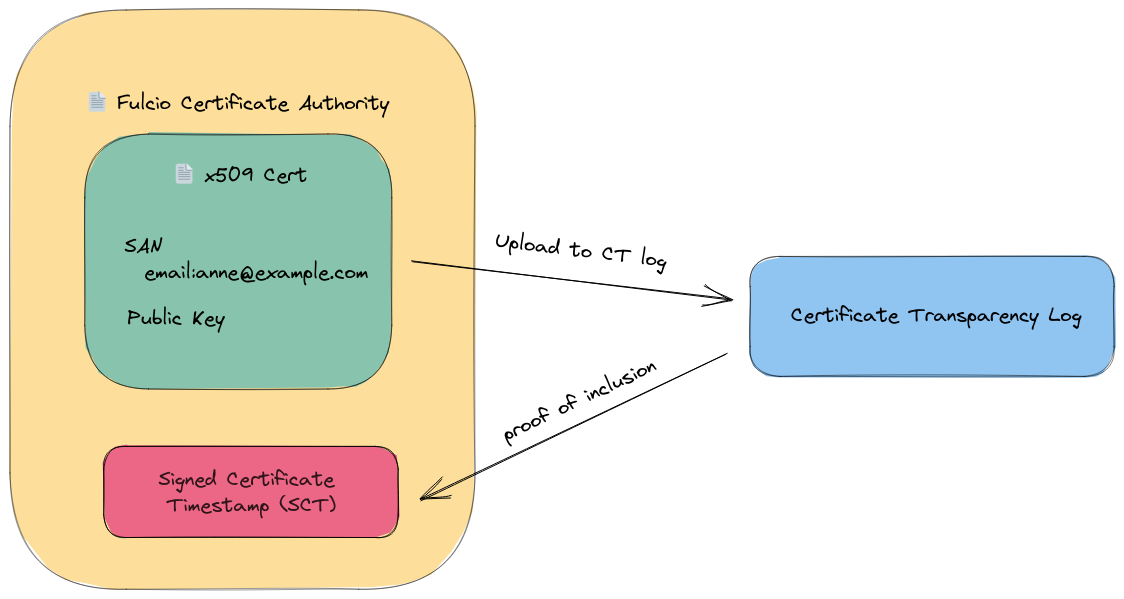
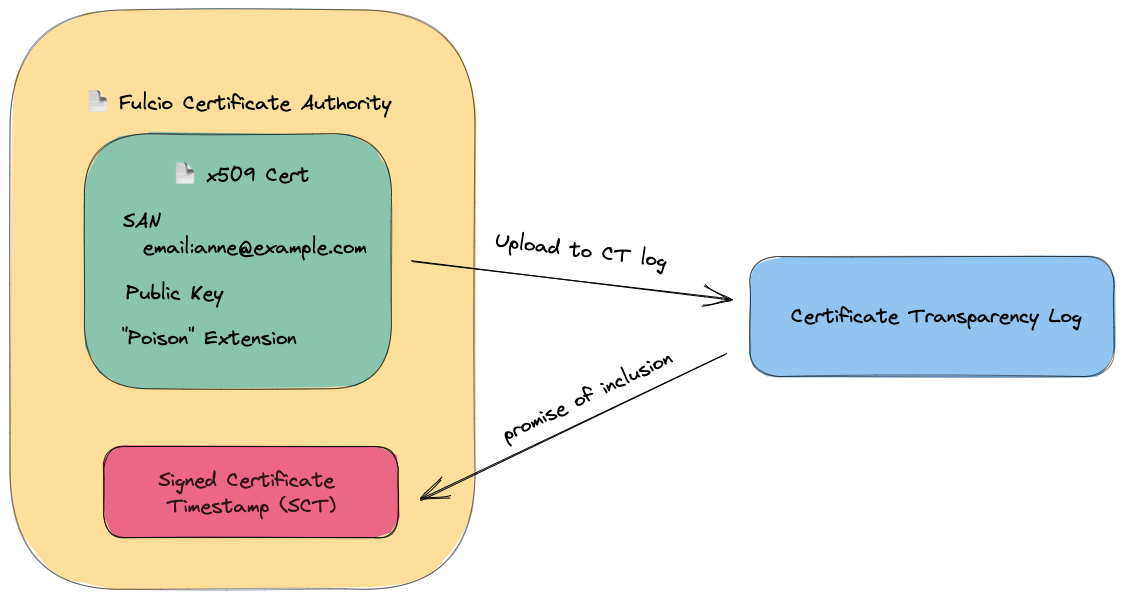
Update certificate issuance documentation
Updated with new backends, CSR, embedded SCT, and cleaned up security
model.

Fixes #699

diff --git a/docs/how-certificate-issuing-works.md b/docs/how-certificate-issuing-works.md
@@ -1,8 +1,7 @@
 # Certificate Issuing Overview
 
-This document walks through the process of issuing a code signing certificate
-from start to finish. This is a great entry point to understanding how Fulcio
-works if you're interested in contributing to the project or just want to
+This document walks through the process of issuing a code signing certificate. This is a great entry point to understanding how Fulcio
+works if you're interested in contributing to the project or want to
 learn more about what's happening under the hood.
 
 ## 1 | Certificate Request Input
@@ -11,17 +10,21 @@ To begin, the client submits a certificate request to Fulcio.
 
 ![Certificate request diagram](img/certificate-request.png)
 
-The certificate request contains three items:
+The certificate request contains the following:
 
-- An OIDC identity token. This is a JWT containing information about the
-  principal (identity of our client), the issuer (who verified this identity?
-Google, Github etc) and some other metadata.
-- The public key. This is the public half of an asymmetric key-pair generated
-  by the client. The public key will be embedded in the final x509 certificate
-if this request is successful
-- A challenge. This challenge proves the client is in possession of the private
-  key that corresponds to the public key provided. The challenge created by
-signing the subject portion of the OIDC ID token
+- An OpenID Connect (OIDC) identity token. This is a signed JWT containing information about the
+  principal (identity of the client), the issuer (who issued the identity token -
+  Google, Microsoft, GitHub, etc.) and additional metadata such as expiration. The princaipl identity
+  can either be a maintainer identity in the form of an email, or a workload identity.
+- The public key. This is the public portion of a cryptographic key pair generated
+  by the client. The public key will be embedded in the issued X.509 certificate.
+- A signed challenge. This challenge proves the client is in possession of the private
+  key that corresponds to the public key provided. The challenge is created by
+  signing the subject (`sub`) of the OIDC identity token.
+- Alternatively, instead of a public key and signed challenge, a client can provide a certificate
+  signing request (CSR), which also provides a proof of possession and the public key.
+
+See the [service definition](https://github.com/sigstore/fulcio/blob/main/fulcio.proto) for more details.
 
 ## 2 | Authentication
 
@@ -30,7 +33,7 @@ OIDC ID token.
 
 ![OIDC Authentication diagram](img/authenticate-token.png)
 
-To authorize the token Fulcio must:
+To authenticate the token Fulcio must:
 
 - Use the issuer claim from the token to find the issuer's OIDC discovery
   endpoint
@@ -41,61 +44,72 @@ To authorize the token Fulcio must:
 
 Once the client has been authenticated, the next step is to verify the client
 is in possession of the private key of the public key they’ve submitted. To do
-this we must verify the challenge. This is simply a signature of the `sub`
-claim so we verify the signature using the public key supplied.
+this, Fulcio verifies the signed challenge or CSR. For a signed challenge, this is
+a signature of the `sub` claim. For challenge and CSR are verified using the provided public key.
 
 ![Challenge verification diagram](img/verify-challenge.png)
 
 ## 4 | Constructing a certificate
 
-The client is now authorized and has proved they own their private key so we
-can issue a code signing certificate for them.
+The client is now authenticated and has proved possession of the private key. Fulcio now
+issues a code signing certificate for the identity from the ID token.
 
 ![Certificate contruction diagram](img/create-certificate.png)
 
-At a high level this looks like
+At a high level, this consists of:
 
-- Embedded the provided public key in the certificate
-- Setting the subject alternative names to match the `sub` claim from the OIDC
-  ID token (NB: this is email or URI depending on the type of issuer. Email for
-Google, but URI for SPIFFE for example)
-- Setting various other customer x509 extensions depending on the metadata in
-  the OIDC ID token claims (e.g the github tag or commit etc)
+- Embedding the provided public key in the certificate
+- Setting the certificate's subject alternative name (who the certificate is issued for) to
+  match the subject from the OIDC ID token. This could be an email, SPIFFE ID, or GitHub Actions workflow identity.
+- Including the OIDC ID token issuer in a custom field in the certificate
+- Setting various X.509 extensions depending on the metadata in
+  the OIDC ID token claims (e.g GitHub Actions workflow information)
 
 ## 5 | Signing the certificate
 
-Our code signing certificate is now complete in detail, but needs to be signed
-by certificate authority so that it becomes connected to Fulcio's chain of
-trust.
+The code signing certificate is now populated, but needs to be signed
+by the certificate authority. This will form a chain of trust from the issued
+certificate to the certificate authority root certificate.
 
 ![Signing diagram](img/sign-certificate.png)
 
-Fulcio supports several certificate authority backends:
+Fulcio supports several signing backends to sign certificates:
 
+- KMS: A KMS key hosted on GCP, AWS, Azure or Hashicorp
+- [Tink](https://github.com/google/tink): A secure KMS-encrypted Tink keyset created with [tinkey](https://github.com/google/tink/blob/master/docs/TINKEY.md)
 - PKCS#11: This works with any PKCS#11 devices including AWS CloudHSM,
-  [softHSM] and others
-- Google Private CA: A hosted certificate authority create by Google Cloud
-  Platform
-- Files: A simple private key and certificate on disk
-- Ephemeral: An in-memory key-pair generated on start up 
+  [softHSM](https://www.opendnssec.org/softhsm/) and others
+- [Google CA Service](https://cloud.google.com/certificate-authority-service/docs): A GCP-hosted certificate authority
+- Files: An on-disk password-protected private key
+- Ephemeral (for testing): An in-memory key pair generated on start up 
 
-[softHSM]: https://www.opendnssec.org/softhsm/
+See [Setting up a Fulcio instance](setup.md) for more details.
 
-## 6 | Certificate Transparency log upload
+## 6 | Certificate Transparency log inclusion
 
-Once the certificate is signed, there is one final task to complete before
-returning the certificate to the client: upload to a certificate transparency
-log.
+As part of certificate issuance, the certificate will be appended to an immutable, append-only,
+cryptographically verifiable certificate transparency (CT) log, which allows for issuance to be
+publicly auditable.
+
+A special X.509 extension, called a poison extension, is included in the certificate before it
+is appended to the log. This certificate is called a precertificate, and is not yet usuable by clients.
 
 ![Transparency log upload diagram](img/ctlog-upload.png)
 
 The certificate transparency log returns a _Signed Certificate Timestamp_
-(SCT).  The SCT indicates the log index for the certificate, a timestamp of
-when it was included and the whole thing is signed by the certificate
-transparency log.
+(SCT). The SCT is a promise of inclusion in the log, signed by the CT log. It can be
+verified without accessing the log, though a client can also request a cryptographic proof
+of inclusion directly from the log.
+
+The SCT is embedded within the certificate, and signed again.
+
+![Signing with embedded SCT diagram](img/sign-certificate-sct.png)
+
+Note that the Certificate Transparency (CT) log is separate from the [Rekor](https://github.com/sigstore/rekor)
+transparency log. Fulcio's CT Log only stores issued certificates, while Rekor stores artifact signatures and attestations.
+
+See [Certificate Transparency Log Information](ctlog.md) for more details.
 
 ## 7 | Return certificate to client
-
-Finally, we return both the certificate and SCT to the client!
 
 ![Return certificate diagram](img/return-cert.png)

diff --git a/docs/security-model.md b/docs/security-model.md
@@ -3,30 +3,34 @@
 Fulcio assumes that a valid OIDC token is a sufficient "proof of ownership" of
 an email address.
 
-To mitigate against this, Fulcio uses a transparency log to help protect
-against OIDC compromise. This means:
+To mitigate against OIDC compromise, Fulcio appends certificates to an immutable,
+append-only cryptographically verifiable transparency log.
 
 - Fulcio MUST publish all certificates to the log.
 - Clients MUST NOT trust certificates that are not in the log.
 
-As a result users can detect any mis-issued certificates.
+As a result users can detect any mis-issued certificates, either due to the CA
+acting maliciously or a compromised OIDC identity provider.
 
-Combined with `rekor's` signature transparency, artifacts signed with
+Combined with [Rekor's](https://github.com/sigstore/rekor) signature transparency, artifacts signed with
 compromised accounts can be identified.
 
 ## Revocation, Rotation and Expiry
 
+Fulcio is designed to avoid the need for revocation of certificates. The Sigstore
+ecosystem is designed to avoid the need for maintainers to frequently re-sign artifacts.
+
 ### Long-term Certificates
 
-These certificates are typically valid for years.  All old code must be
-re-signed with a new cert before an old cert expires.  Typically this works
-with long deprecation periods, dual-signing and planned rotations.
+These certificates are typically valid for years.  All artifacts must be
+re-signed with a new certficate before an old certificate expires. Typically this requires
+long deprecation periods, dual-signing and planned rotations.
 
 There are a couple problems with this approach:
 
-1. It assumes users can keep acess to private keys and keep them secret over
-   long periods of time
-2. Revocation is hard and doesn't work well
+1. It requires that users can maintain access to private keys and keep them secure over
+   long periods of time.
+2. Revocation doesn't scale well.
 
 ### Fulcio's Model
 
@@ -39,13 +43,6 @@ Sigstore accomplishes this with a tranpsarency log called
 inclusion time in the log was during the certificate's validity period.
 
 An entry in Rekor provides a single-party attestation that a piece of data
-existed prior to a certain time.  These timestamps cannot be tampered with
-later, providing long-term trust.  This long-term trust also requires that the
+existed prior to a certain time. These timestamps cannot be tampered with
+later, providing long-term trust. This long-term trust also requires that the
 log is monitored.
-
-Transparency Logs make it hard to forge timestamps long-term, but in short
-time-windows it would be much easier for the Rekor operator to fake or forge
-timestamps.  To mitigate this, Rekor's timestamps and tree head are signed - a
-valid Signed Tree Head (STH) contains a non-repudiadable timestamp.  These
-signed timestamp tokens are saved as evidence in case Rekor's clock changes in
-the future. So, more skeptical parties don't have to trust Rekor at all!
